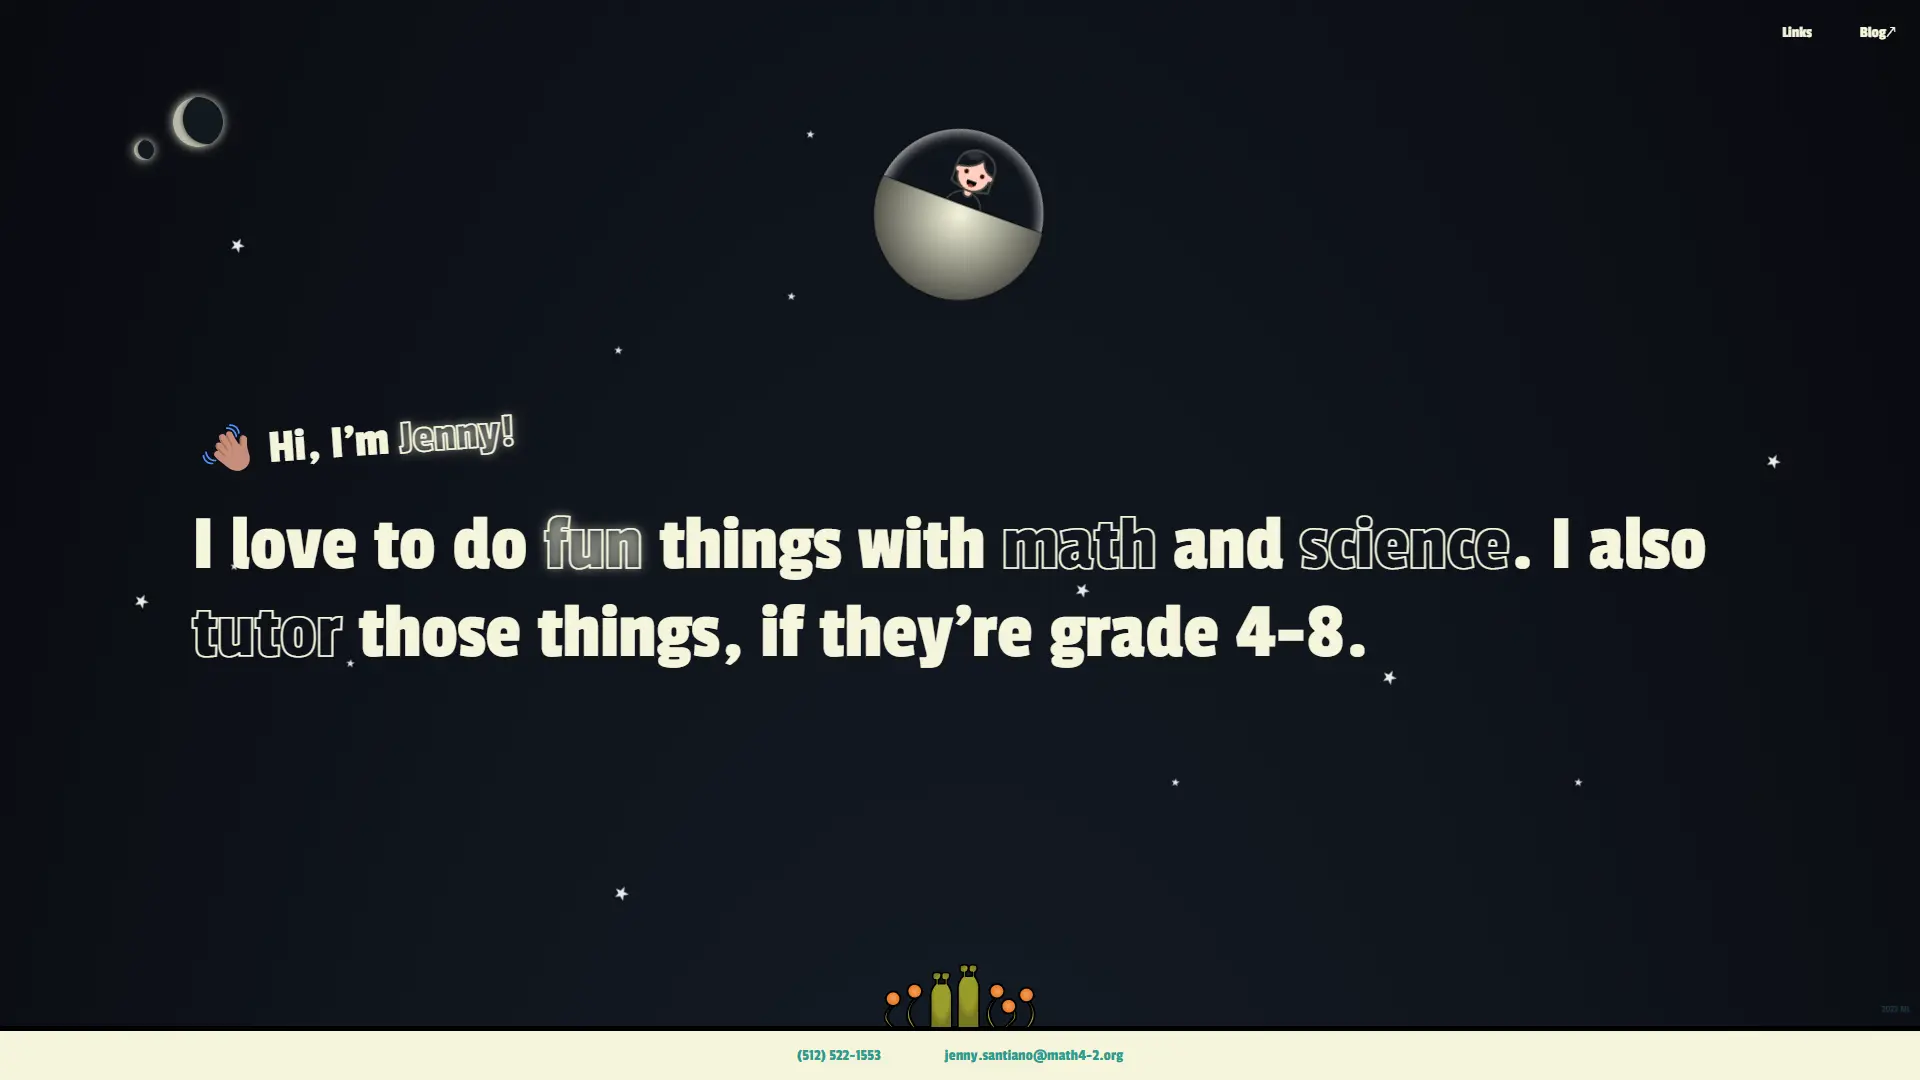
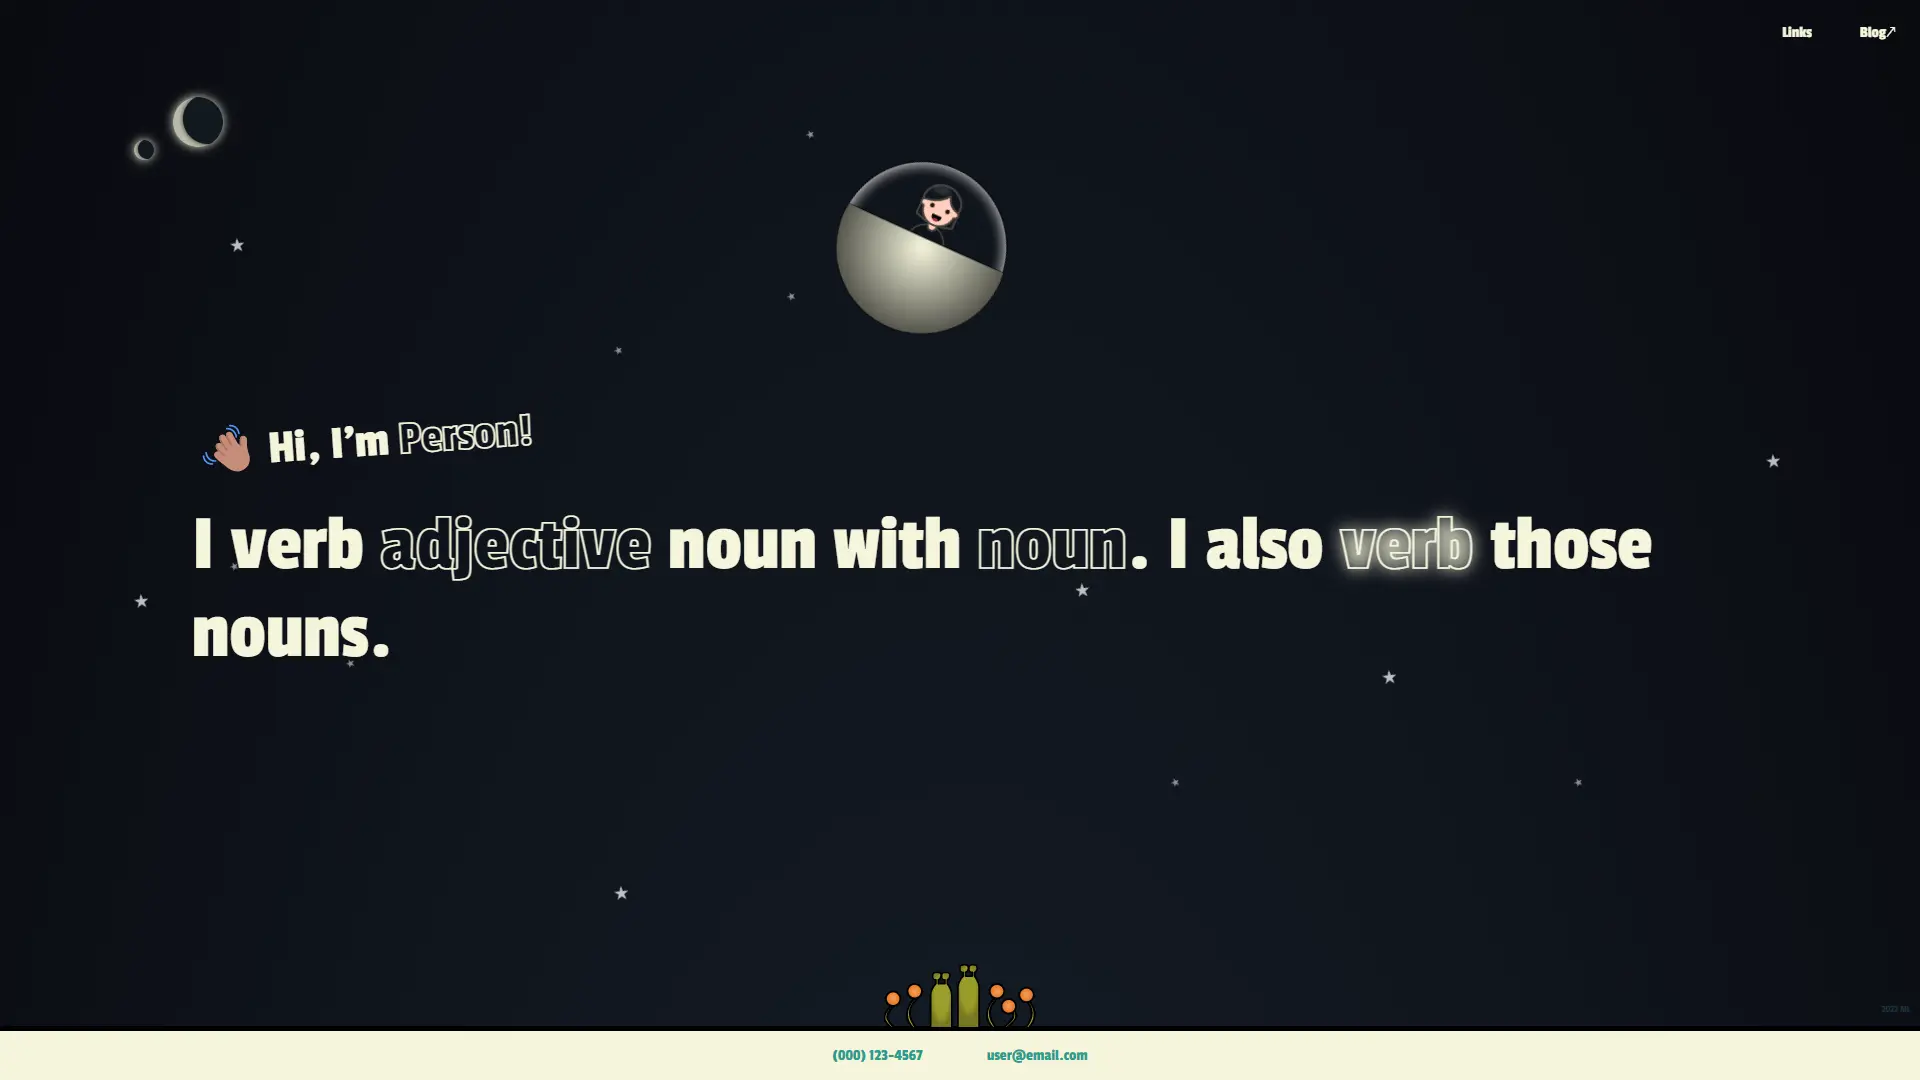
update readme

diff --git a/README.md b/README.md
@@ -7,6 +7,8 @@ Jamstack website built with Node, Nunjucks & CSS, Eleventy & Netlify CMS.
 
 ### Main
 ![main](./main.webp)
+### Content
+![content](./content.webp)
 ### Blog
 ![blog](./blog.webp)
 ### Post
